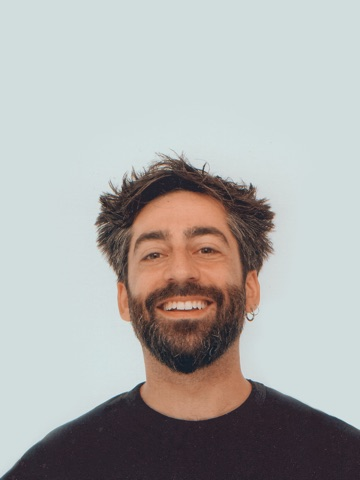
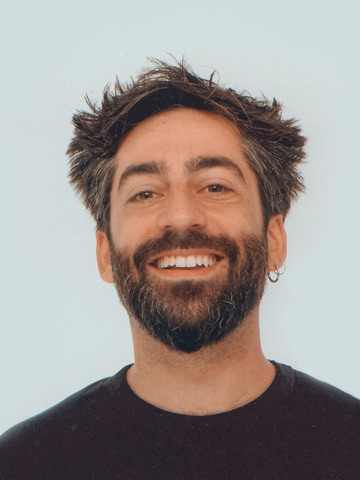
Reposition founder portrait crop

diff --git a/about/index.html b/about/index.html
@@ -37,7 +37,7 @@
   <div class="wrap about-two-col">
     <div class="about-founder-column">
       <figure class="about-founder-photo" oncontextmenu="return false">
-        <picture><source type="image/avif" srcset="../images/mirco-founder-portrait.avif?v=2"><img src="../images/mirco-founder-portrait.jpg?v=2" width="360" height="480" loading="lazy" draggable="false" decoding="async" alt="Mirco, founder of A Creative Block"></picture>
+        <picture><source type="image/avif" srcset="../images/mirco-founder-portrait.avif?v=3"><img src="../images/mirco-founder-portrait.jpg?v=3" width="360" height="480" loading="lazy" draggable="false" decoding="async" alt="Mirco, founder of A Creative Block"></picture>
       </figure>
       <img class="about-portrait-credential-logo" src="../images/moe-certified-coach.png" loading="lazy" decoding="async" alt="MOE Certified Coach">
       <p class="about-portrait-credential-caption">MOE Certified Coach</p>
